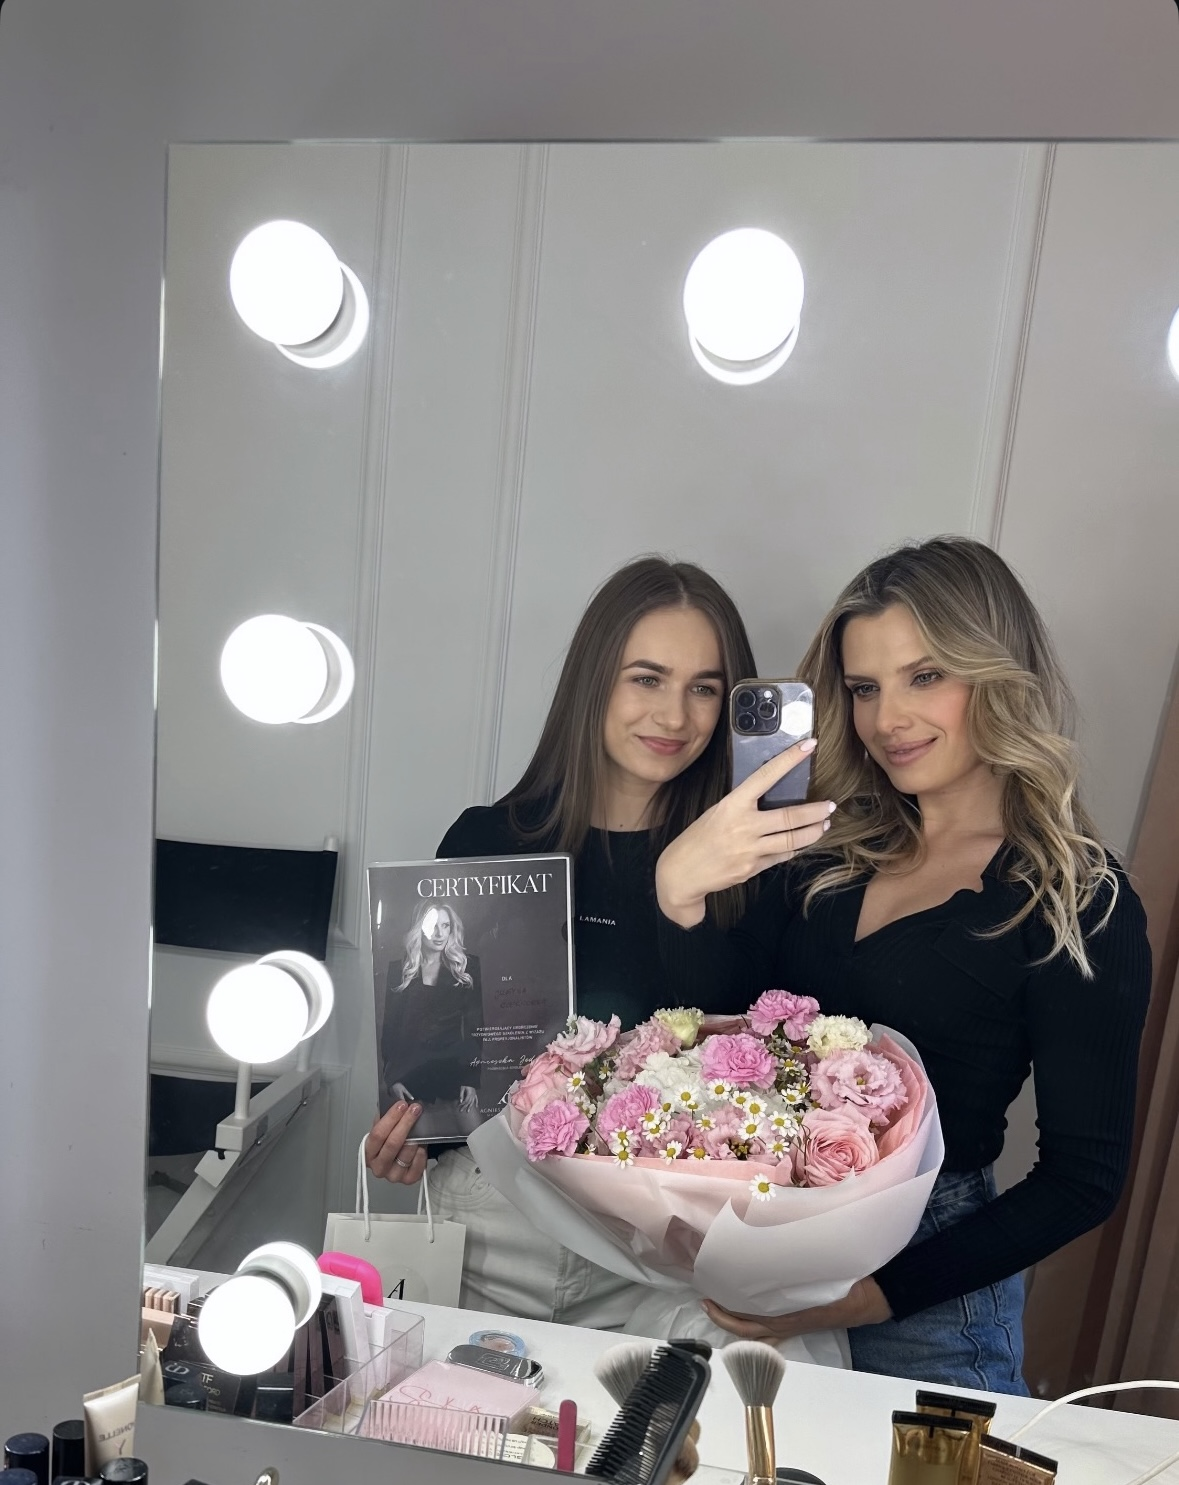
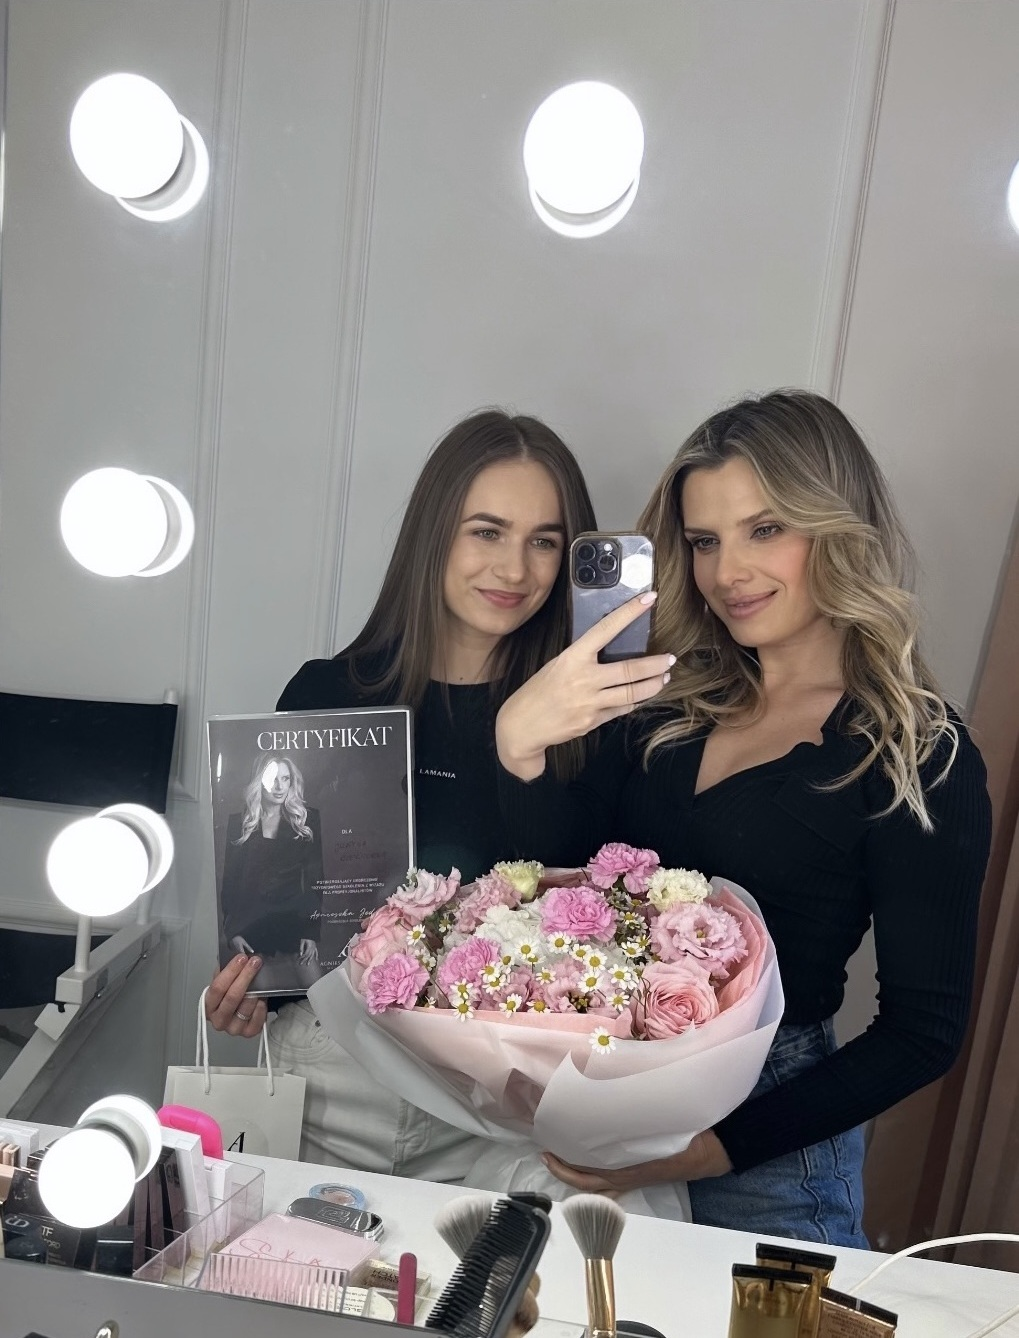
update about us

diff --git a/about-us.html b/about-us.html
@@ -109,13 +109,14 @@
           <div class="row row-50 align-items-lg-center justify-content-xl-between">
             <div class="col-lg-6">
               <h2>Poznaj mnie bliżej</h2>
-              <p class="big text-gray-800">Ukończyłam profesjonalny kurs wizażu u Agnieszki Jędrej w Warszawie.</p>
-              <p>Stale poszerzam swoją wiedzę i rozwijam umiejętności, aby każda klientka mogła czuć się pewnie i pięknie.</p>
+              <p class="big text-gray-800">Nazywam sie Justyna i makijaż to moja największa pasja.</p>
+              <p>Ukończyłam profesjonalny kurs wizażu u Agnieszki Jędrej w Warszawie. Stale poszerzam swoją wiedzę i rozwijam umiejętności, aby każda klientka mogła czuć się pewnie i pięknie.</p>
+              <p>Aktualnie zdobywam doświadczenie, pracując z klientkami - każda współpraca daje mi ogrom satysfakcji i motywuje do dalszego rozwoju.</p>
             </div>
             <div class="col-lg-6">
               <div class="box-images box-images-variant-3">
-                <div class="box-images-item"><img src="images/justyna.jpg" alt="Justyna - wizażystka" width="470" height="282"/></div>
-                <div class="box-images-item box-images-without-border"><img src="images/IMG_2692.jpeg" alt="Studio makijażu" width="470" height="282"/></div>
+                <div class="box-images-item"><img src="images/IMG_2587.jpeg" alt="Justyna - wizażystka" width="470" height="282"/></div>
+                <!-- <div class="box-images-item box-images-without-border"><img src="images/IMG_2692.jpeg" alt="Studio makijażu" width="470" height="282"/></div> -->
               </div>
             </div>
           </div>
